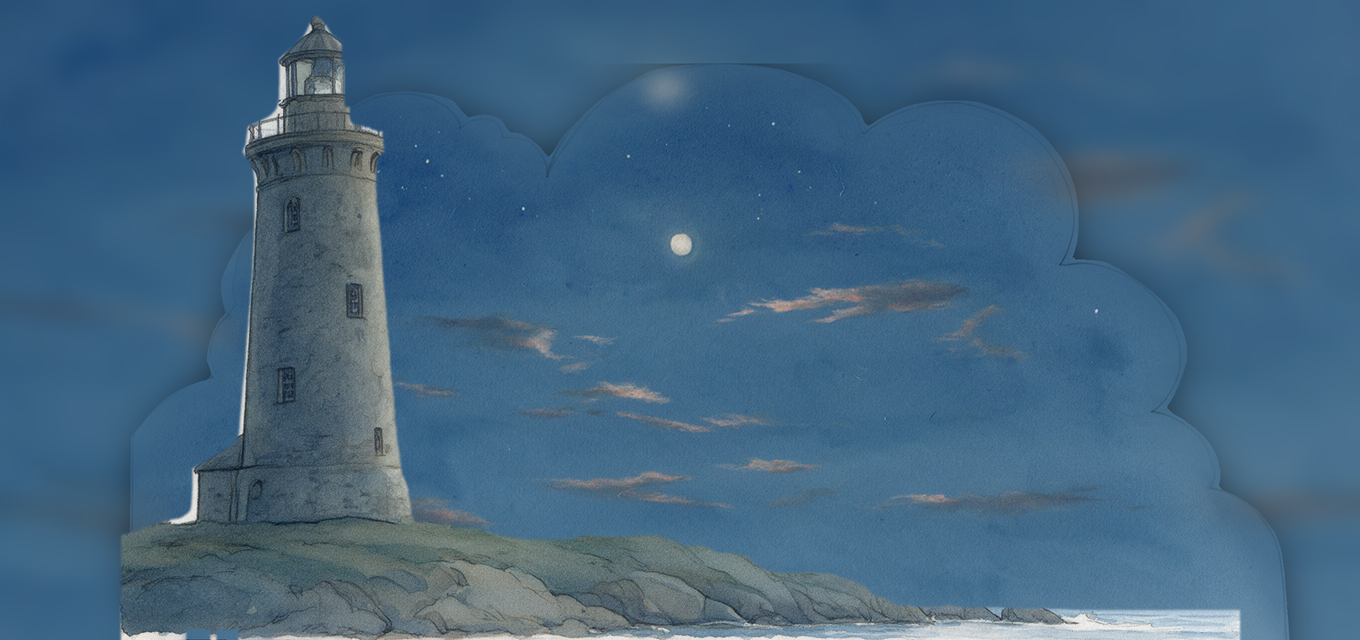
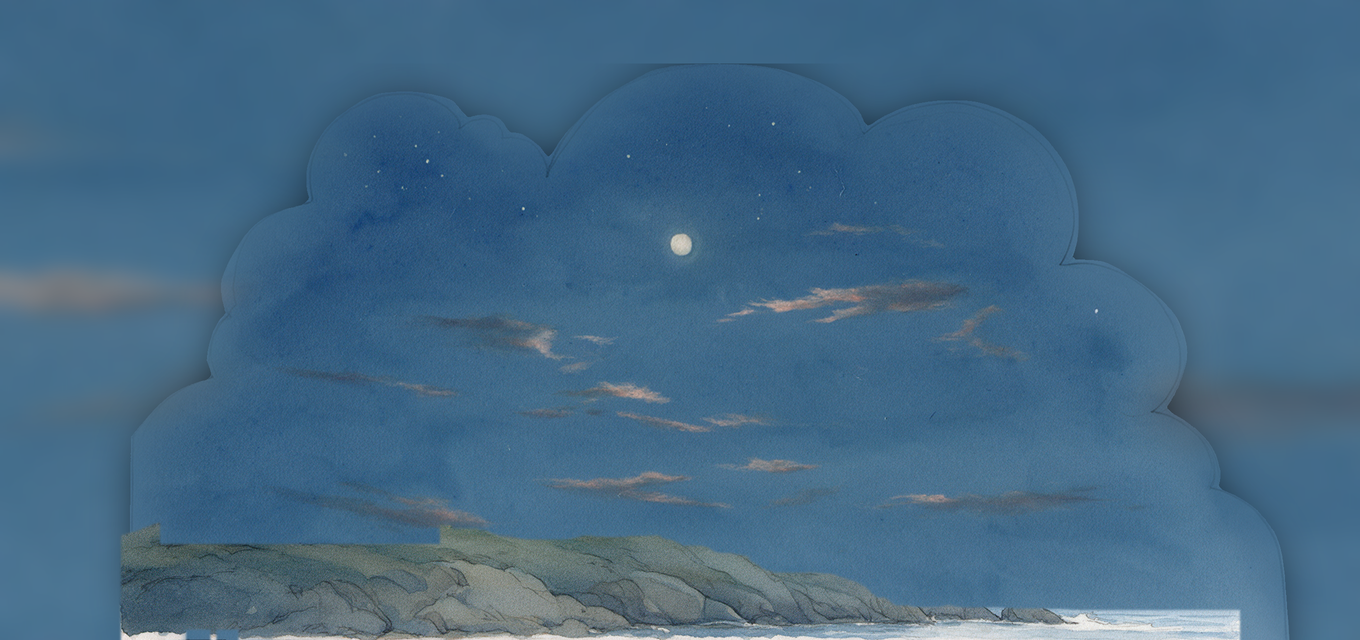
Window: no second lighthouse (owner: it stands on the book). The view is the night shore with the lighthouse taken out, the moon over the headland's rocks and the sea, a moon-free backdrop; the book's beam sweeps across it from outside, with a glint on the water.

diff --git a/client/src/room-fx/window.ts b/client/src/room-fx/window.ts
@@ -1,11 +1,12 @@
-import { Mesh, PlaneGeometry, ShaderMaterial, Vector2, Vector3, Vector4 } from '@iwsdk/core';
+import { Mesh, PlaneGeometry, ShaderMaterial, Vector3, Vector4 } from '@iwsdk/core';
 import type { TexRef } from '../paint/texref.ts';
 import type { RoomMap } from './room-map.ts';
 import type { Lasting } from './state.ts';
 
 /**
- * A window onto the story: the shore at night, the lighthouse on its headland, the moon and the sea,
- * with the lamp's beam turning out there in time with the book's. It opens on whatever the room has
+ * A window onto the story: the shore at night, the moon over the headland's rocks and the sea, with
+ * the book's lighthouse beam sweeping across it from outside (owner, Nov 15: the lighthouse stands on
+ * the book, so the window shows no second one). It opens on whatever the room has
  * (owner, Nov 15: "wall, window, anything that we can use, but not trying to fit it"):
  * - a real window (or a door): the painting fills it, a little inside its frame;
  * - a wall: a painted opening with a soft watercolour edge, on the wall you face, beside the book;
@@ -15,10 +16,10 @@ import type { Lasting } from './state.ts';
 
 /** The window's painting, made for free from the shore's layers (`art/tools/make_window_night.py`). */
 export const WINDOW_ART = 'fx/window-night.png';
-/** The part of the painting a window shows: inside the sky's painted edge, round the lighthouse and the sea. */
-const VIEW = { u0: 0.1, u1: 0.92, v0: 0.0, v1: 0.9 };
-/** Where the lighthouse lamp is in the painting, measured from the headland layer. */
-const LAMP_UV = new Vector2(0.197, 0.852);
+/** The part of the painting a window shows: inside the sky's painted edge, the moon, rocks and sea. */
+const VIEW = { u0: 0.2, u1: 0.92, v0: 0.0, v1: 0.88 };
+/** Where a tall window's slice is kept: round the moon above the sea. */
+const FOCUS_U = 0.55;
 /** The glass only, inside the real frame. */
 const INSET = 0.9;
 const FADE_MS = 3000;
@@ -43,7 +44,6 @@ export function createWindowView(art: TexRef): WindowView {
       uMap: { value: art.texture },
       uRect: { value: new Vector4(...art.uv) },
       uView: { value: new Vector4(VIEW.u0, VIEW.v0, VIEW.u1, VIEW.v1) },
-      uLamp: { value: LAMP_UV },
       uAngle: { value: 0 },
       uFade: { value: 0 },
       uOpening: { value: 0 },
@@ -57,25 +57,21 @@ export function createWindowView(art: TexRef): WindowView {
     fragmentShader: /* glsl */ `
       uniform sampler2D uMap;
       uniform vec4 uRect, uView;
-      uniform vec2 uLamp;
       uniform float uAngle, uFade, uOpening;
       varying vec2 vUv;
       void main() {
         // vUv covers the glass; uView is the part of the painting it shows, already fitted to the glass.
         vec2 p = mix(uView.xy, uView.zw, vUv);
         vec3 c = texture2D(uMap, mix(uRect.xy, uRect.zw, p)).rgb;
-        // The lamp's beam, seen from the side: a soft band reaching out from the lamp as it turns,
-        // longest side-on, and a bright flare as it faces you.
-        float s = sin(uAngle), f = cos(uAngle);
-        vec2 d = p - uLamp;
-        d.x *= 2.1;
-        float along = d.x * sign(s);
-        float reach = abs(s) * 1.1;
-        float band = step(0.0, along) * (1.0 - smoothstep(reach * 0.6, reach, along))
-          * exp(-pow(d.y / (0.012 + 0.05 * along), 2.0));
-        float flare = pow(max(f, 0.0), 10.0) * exp(-dot(d, d) * 60.0);
-        float glow = exp(-dot(d, d) * 900.0);
-        c += vec3(1.0, 0.86, 0.55) * (0.55 * band + 0.9 * flare + 0.6 * glow);
+        // The book's beam crosses the view once a turn, from outside: a broad soft band of warm light
+        // sweeping across, brightest low over the water, with a glint on the sea as it passes.
+        float turn = fract(uAngle / 6.2831853);
+        float pass = 1.0 - step(0.32, turn);
+        float x = mix(-0.25, 1.25, turn / 0.32);
+        float band = pass * exp(-pow((vUv.x - x) / 0.13, 2.0));
+        float low = smoothstep(0.55, 0.05, vUv.y);
+        float glint = low * (0.5 + 0.5 * sin(p.x * 140.0 + p.y * 40.0)) * smoothstep(0.25, 0.0, vUv.y);
+        c += vec3(1.0, 0.86, 0.55) * band * (0.22 + 0.3 * low + 0.5 * glint);
         // In glass: soft at the edge, as a view is through a frame. On a wall: a painted opening, a
         // rounded shape with an uneven watercolour edge and a little pooled colour round it.
         vec2 e = min(vUv, 1.0 - vUv);
@@ -198,7 +194,7 @@ export function createWindowView(art: TexRef): WindowView {
       if (aspect < artAspect) {
         // A tall window: a slice, kept round the lighthouse and the sea beside it.
         const span = ((VIEW.u1 - VIEW.u0) * aspect) / artAspect;
-        const centre = Math.min(VIEW.u1 - span / 2, Math.max(VIEW.u0 + span / 2, LAMP_UV.x + span * 0.32));
+        const centre = Math.min(VIEW.u1 - span / 2, Math.max(VIEW.u0 + span / 2, FOCUS_U));
         view.set(centre - span / 2, VIEW.v0, centre + span / 2, VIEW.v1);
       } else {
         const span = ((VIEW.v1 - VIEW.v0) * artAspect) / aspect;

diff --git a/art/tools/make_window_night.py b/art/tools/make_window_night.py
@@ -1,5 +1,5 @@
 """The window's night view, made for free from the shore's own layers (runs 004 and 011): its night
-sky, then the headland with the lighthouse and the sea. Seen through a window, a cut-out's paper rim
+sky, then the headland's rocks and the sea, with the lighthouse taken out (it stands on the book). Seen through a window, a cut-out's paper rim
 and the sky panel's cloud edge would look pasted on, so the rim is trimmed off the headland, the sky's
 edge is softened, and the space round it is filled with the sky's own paint, stretched and blurred.
 Run from the repo root: python3 art/tools/make_window_night.py"""
@@ -15,14 +15,23 @@ W, H = land.size
 # panel's cloud edge melts into the same paint.
 alpha = np.array(sky.getchannel('A'))
 ys, xs = np.where(alpha > 250)
-x0, x1 = np.percentile(xs, 12), np.percentile(xs, 88)
-y0, y1 = np.percentile(ys, 12), np.percentile(ys, 88)
+# A patch to the right of the moon and below it, so the backdrop has no second, blurred moon.
+x0, x1 = np.percentile(xs, 58), np.percentile(xs, 88)
+y0, y1 = np.percentile(ys, 45), np.percentile(ys, 85)
 out = sky.crop((int(x0), int(y0), int(x1), int(y1))).convert('RGB').resize((W, H), Image.LANCZOS).filter(ImageFilter.GaussianBlur(18)).convert('RGBA')
 
 # The sky panel's edge melts into those colours instead of ending on a cut line.
 a = sky.getchannel('A').filter(ImageFilter.MinFilter(71)).filter(ImageFilter.GaussianBlur(50))
 sky.putalpha(a)
 out.alpha_composite(sky, (0, H - sky.size[1]))
+
+# No lighthouse: it stands on the book, so the window shows the shore it looks out over. Everything
+# above the rocks in the tower's columns goes, and the sky shows through.
+la = np.array(land)
+TOWER = (340, 860)
+ROCK_Y = 1068
+la[:ROCK_Y, TOWER[0]:TOWER[1], 3] = 0
+land = Image.fromarray(la)
 
 # The headland's white paper rim is trimmed off.
 a = land.getchannel('A').filter(ImageFilter.MinFilter(41)).filter(ImageFilter.GaussianBlur(2))

diff --git a/docs/playtest-notes.md b/docs/playtest-notes.md
@@ -173,3 +173,4 @@ Signed off by the owner in the headset after AI Storyteller session 2: "I actual
 - **The window opened in another room** (owner: "the window I can see is very far … it's in my bedroom … detect rooms and our wall window where we are playing the book"). The monitor showed two windows in Space Setup, one about 7 m off in the bedroom; the effect took the first listed. *Fixed:* the room map keeps only the room the book is in (the floor under it, the walls on that floor's edge, and what stands on or in it), so no effect or storyteller line reaches another room; and with no place named, the window effect takes the nearest window.
 - **Window, second look:** "Nice. I see the window but … it opened … behind me so I had to move my head left and right … place this window in my field of view. Or left and right works but if it's towards my back then it's difficult to find it." The nearest window (about 1 m away) was beside and behind the reader. *Fixing:* the window effect only uses a real window within about 70° either side of the direction from you to the book; otherwise it opens on the wall in front of you, beside the book.
 - **The window painting itself:** "The window looks nice by the way."
+- **Window in view, on the wall:** "this was good". One fix: "the content of window had a lighthouse and the lighthouse is also part of book on desk so doesn't make sense." *Changing:* the window shows the night shore without the lighthouse (the moon, the sky, the headland's rocks and the sea), and the book's beam sweeps across it from outside.
